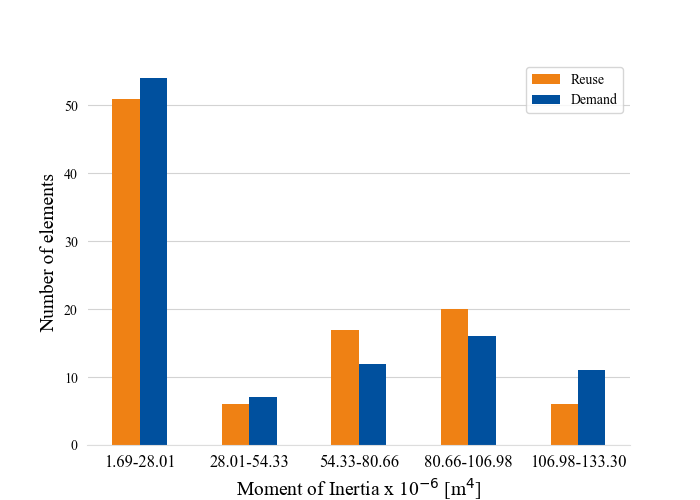
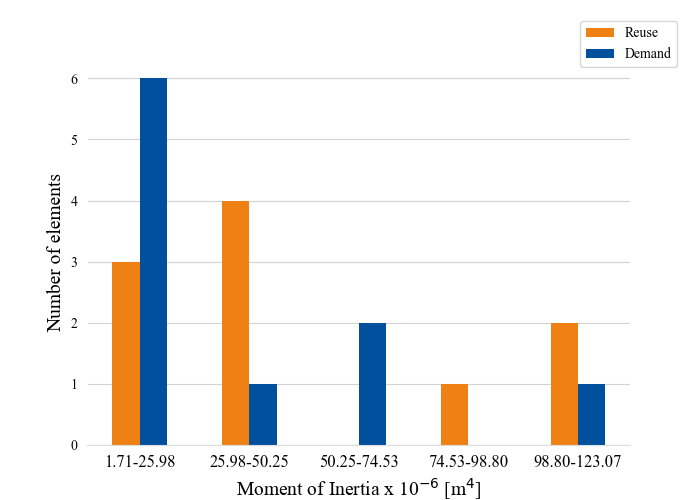
Fixed legend in plots, distance between material bars and the sizing of circles in map plot

diff --git a/Local_files/GUI_files/Results/Maps/map_reused_test_subs.html b/Local_files/GUI_files/Results/Maps/map_reused_test_subs.html
@@ -25,7 +25,7 @@
             <meta name="viewport" content="width=device-width,
                 initial-scale=1.0, maximum-scale=1.0, user-scalable=no" />
             <style>
-                #map_cc3bad2fd6f7d48278715364c1f8ff1e {
+                #map_247c877443954fe98fb7e86f215f1224 {
                     position: relative;
                     width: 100.0%;
                     height: 100.0%;
@@ -43,63 +43,83 @@
                     top: 10px; right: 10px; width: 180px; height: 50px; 
                     border:2px solid grey; z-index:9999; font-size:14px;
                     background-color: white;text-align:center;font-family: "Times New Roman", Times, serif;">
-        <i class="fa-solid fa-circle" style="color:red;font-size=0.5px;"></i> Manufacturer locations<br>
+        <i class="fa-solid fa-circle" style="color:green;font-size=0.5px;"></i> Substitution locations<br>
         <i class="fa-solid fa-location-dot" style="color:#38AADD;"></i> Cite location  
         </div>
         
     
-            <div class="folium-map" id="map_cc3bad2fd6f7d48278715364c1f8ff1e" ></div>
+            <div class="folium-map" id="map_247c877443954fe98fb7e86f215f1224" ></div>
         
 </body>
 <script>
     
     
-            var map_cc3bad2fd6f7d48278715364c1f8ff1e = L.map(
-                "map_cc3bad2fd6f7d48278715364c1f8ff1e",
+            var map_247c877443954fe98fb7e86f215f1224 = L.map(
+                "map_247c877443954fe98fb7e86f215f1224",
                 {
-                    center: [63.438445, 10.40994],
+                    center: [63.04910296666666, 10.1910685],
                     crs: L.CRS.EPSG3857,
                     zoom: 10,
                     zoomControl: true,
                     preferCanvas: false,
                 }
             );
-            L.control.scale().addTo(map_cc3bad2fd6f7d48278715364c1f8ff1e);
+            L.control.scale().addTo(map_247c877443954fe98fb7e86f215f1224);
 
             
 
         
     
-            var tile_layer_2a9acdcf0084eb6a5c63c95bba98897e = L.tileLayer(
+            var tile_layer_1b1ba0fe0bc124f24a98f321435b4739 = L.tileLayer(
                 "https://{s}.tile.openstreetmap.org/{z}/{x}/{y}.png",
                 {"attribution": "Data by \u0026copy; \u003ca target=\"_blank\" href=\"http://openstreetmap.org\"\u003eOpenStreetMap\u003c/a\u003e, under \u003ca target=\"_blank\" href=\"http://www.openstreetmap.org/copyright\"\u003eODbL\u003c/a\u003e.", "detectRetina": false, "maxNativeZoom": 18, "maxZoom": 18, "minZoom": 0, "noWrap": false, "opacity": 1, "subdomains": "abc", "tms": false}
-            ).addTo(map_cc3bad2fd6f7d48278715364c1f8ff1e);
+            ).addTo(map_247c877443954fe98fb7e86f215f1224);
         
     
-            var marker_46a3abbd7221c531623b095608c17190 = L.marker(
+            var marker_32cfa4f846ec8a469770115056ec6ee7 = L.marker(
                 [63.4154171, 10.3994672],
                 {}
-            ).addTo(map_cc3bad2fd6f7d48278715364c1f8ff1e);
+            ).addTo(map_247c877443954fe98fb7e86f215f1224);
         
     
-            var icon_995f310fde1750b74e679dd72b1b94f8 = L.AwesomeMarkers.icon(
+            var icon_4fc1d4b2f7d595804a48e38b1487fc40 = L.AwesomeMarkers.icon(
                 {"extraClasses": "fa-rotate-0", "icon": "fa-circle", "iconColor": "white", "markerColor": "blue", "prefix": "fa"}
             );
-            marker_46a3abbd7221c531623b095608c17190.setIcon(icon_995f310fde1750b74e679dd72b1b94f8);
+            marker_32cfa4f846ec8a469770115056ec6ee7.setIcon(icon_4fc1d4b2f7d595804a48e38b1487fc40);
         
     
-            var marker_3e5f704e72cb6eae889393ed543a3a82 = L.marker(
-                [63.438445, 10.40994],
+            var marker_13b38c006cc4646dd1f41c6b7d6e798f = L.marker(
+                [62.8238946, 9.9934341],
                 {}
-            ).addTo(map_cc3bad2fd6f7d48278715364c1f8ff1e);
+            ).addTo(map_247c877443954fe98fb7e86f215f1224);
         
     
-            var div_icon_d0e80118728054b591660a28135e9c68 = L.divIcon({"className": "empty", "html": "\u003cdiv style=\"font-size: 12px; font-weight: bold; color: white; background-color: red; border-radius: 50%; padding: 10px 5px; height: 35px; width: 35px; text-align: center; line-height: 1.5;\"\u003e7\u003c/div\u003e"});
-            marker_3e5f704e72cb6eae889393ed543a3a82.setIcon(div_icon_d0e80118728054b591660a28135e9c68);
+            var div_icon_5601384cf105da69f61a8d5ac26465c5 = L.divIcon({"className": "empty", "html": "\u003cdiv style=\"font-size: 12px; font-weight: bold; color: white; background-color: green; border-radius: 50%; padding: 10px 5px; height: 35px; width: 35px; text-align: center; line-height: 1.5;\"\u003e1\u003c/div\u003e"});
+            marker_13b38c006cc4646dd1f41c6b7d6e798f.setIcon(div_icon_5601384cf105da69f61a8d5ac26465c5);
         
     
-            map_cc3bad2fd6f7d48278715364c1f8ff1e.fitBounds(
-                [["63.4154171", "10.3994672"], [63.438445, 10.40994]],
+            var marker_c55d20581190eb021df675a5e8c3f320 = L.marker(
+                [63.033639, 10.286356],
+                {}
+            ).addTo(map_247c877443954fe98fb7e86f215f1224);
+        
+    
+            var div_icon_d3079347e856e344127c4301450e4e40 = L.divIcon({"className": "empty", "html": "\u003cdiv style=\"font-size: 12px; font-weight: bold; color: white; background-color: green; border-radius: 50%; padding: 10px 5px; height: 35px; width: 35px; text-align: center; line-height: 1.5;\"\u003e1\u003c/div\u003e"});
+            marker_c55d20581190eb021df675a5e8c3f320.setIcon(div_icon_d3079347e856e344127c4301450e4e40);
+        
+    
+            var marker_3ae1f0b2d0cea0dd1450dd44462c9079 = L.marker(
+                [63.2897753, 10.2934154],
+                {}
+            ).addTo(map_247c877443954fe98fb7e86f215f1224);
+        
+    
+            var div_icon_8c217b9e90bc2b68d26f0736ce2175ec = L.divIcon({"className": "empty", "html": "\u003cdiv style=\"font-size: 12px; font-weight: bold; color: white; background-color: green; border-radius: 50%; padding: 10px 5px; height: 35px; width: 35px; text-align: center; line-height: 1.5;\"\u003e1\u003c/div\u003e"});
+            marker_3ae1f0b2d0cea0dd1450dd44462c9079.setIcon(div_icon_8c217b9e90bc2b68d26f0736ce2175ec);
+        
+    
+            map_247c877443954fe98fb7e86f215f1224.fitBounds(
+                [["63.4154171", "10.3994672"], [62.8238946, 9.9934341], [63.033639, 10.286356], [63.2897753, 10.2934154]],
                 {}
             );
         

diff --git a/TestCases/study_case_generate_report.py b/TestCases/study_case_generate_report.py
@@ -28,7 +28,7 @@ constants = {
     ########################
     "Project name": "Testing PDF",
     "Metric": "GWP",
-    "Algorithms": ["greedy_plural", "milp", "bipartite_plural"],
+    "Algorithms": ["greedy_single"],
     "Include transportation": True,
     "Cite latitude": "63.4154171",
     "Cite longitude": "10.3994672",
@@ -59,8 +59,8 @@ materials = ["Timber", "Steel"]
 
 #GENERATE FILE
 #============
-supply = hm.create_random_data_supply_pdf_reports(supply_count = 100, length_min = 1.0, length_max = 10.0, area_min = 0.004, area_max = 0.04, materials = materials, supply_coords = supply_coords)
-demand = hm.create_random_data_demand_pdf_reports(demand_count = 100, length_min = 1.0, length_max = 10.0, area_min = 0.004, area_max = 0.04, materials = materials)
+supply = hm.create_random_data_supply_pdf_reports(supply_count = 10, length_min = 1.0, length_max = 10.0, area_min = 0.004, area_max = 0.04, materials = materials, supply_coords = supply_coords)
+demand = hm.create_random_data_demand_pdf_reports(demand_count = 10, length_min = 1.0, length_max = 10.0, area_min = 0.004, area_max = 0.04, materials = materials)
 hm.export_dataframe_to_csv(supply, r"" + "./CSV/testing_pdf_supply.csv")
 hm.export_dataframe_to_csv(demand, r"" + "./CSV/testing_pdf_demand.csv")
 #supply.to_excel(r"" + "./CSV/study_case_supply.xlsx")
@@ -85,9 +85,9 @@ plot.create_graph(supply, demand, target_column="Moment of Inertia", unit=r"[m$^
 plot.plot_materials(supply, demand, "", save_filename=r"material_plot.png")
 
 if constants["Include transportation"]:
-    plot.create_map_substitutions(supply, pdf_results, "supply", color = "green", legend_text="Substitution locations", save_name=r"map_reused_subs")
+    plot.create_map_substitutions(supply, pdf_results, "supply", color = "green", legend_text="Substitution locations", save_name=r"map_reused_test_subs")
     plot.create_map_substitutions(demand, pdf_results, "demand", color = "red", legend_text="Manufacturer locations", save_name=r"map_manu_subs")
-hm.generate_pdf_report(pdf_results, constants["Project name"],supply,demand, filepath = r"./Local_files/GUI_files/Results/")
+#hm.generate_pdf_report(pdf_results, constants["Project name"],supply,demand, filepath = r"./Local_files/GUI_files/Results/")
 
 
 #TODO: Create map with the random supply locations and the cite location
@@ -108,6 +108,5 @@ hm.generate_pdf_report(pdf_results, constants["Project name"],supply,demand, fil
 #plot.create_map_substitutions(demand, pdf_results, "demand", color = "red", legend_text="Manufacturer locations", save_name=r"map_manu_subs")
 #pdf = hm.generate_pdf_report(pdf_results, projectname = constants["Project name"], filepath = r"./Local_files/GUI_files/Results/")
 #print(hm.extract_pairs_df(result))
-
 
 

diff --git a/Matching/plotting.py b/Matching/plotting.py
@@ -81,11 +81,13 @@ def plot_materials(supply, demand, fig_title, save_filename):
     plt.ylabel("Number of elements", fontsize=14)
     plt.title(fig_title)
     ax.yaxis.get_major_locator().set_params(integer=True)
-    width = 0.15
+    width = 0.25
+    ax.set_xlim([x[0]-0.60, x[-1]+0.60])
     bar1 = ax.bar(x - width / 2, supply_values, width, label="Reuse", zorder=2, color = color_palette[0])
     bar2 = ax.bar(x + width / 2, demand_values, width, label="Demand", zorder=2, color = color_palette[1])
-    ax.set_xticks(x, label, fontsize=12)
-    ax.legend()
+    ax.set_xticks(x)
+    ax.set_xticklabels(label, fontsize=12)
+    ax.legend(loc = "upper right", bbox_to_anchor=(1.10, 1.12))
     ax.set_facecolor("white")
     ax.grid(visible=True, color="lightgrey", axis="y", zorder=1)
     #for position in ['top', 'bottom', 'left', 'right']:
@@ -95,6 +97,7 @@ def plot_materials(supply, demand, fig_title, save_filename):
     ax.spines['left'].set_visible(False)
     ax.spines['bottom'].set_color('#DDDDDD')
     ax.tick_params(bottom=False, left=False)
+    # set x-axis limits to reduce space between groups of bars
     save_name = r"./Local_files/GUI_files/Results/Plots/" + save_filename
     plt.savefig(save_name, dpi=100)
 
@@ -180,7 +183,7 @@ def create_graph(supply, demand, target_column, unit, number_of_intervals, fig_t
     bar1 = ax.bar(x - width / 2, supply_values, width, label="Reuse", zorder=2, color = color_palette[0])
     bar2 = ax.bar(x + width / 2, demand_values, width, label="Demand", zorder=2, color = color_palette[1])
     ax.set_xticks(x, label, fontsize=12)
-    ax.legend()
+    ax.legend(loc = "upper right", bbox_to_anchor=(1.10, 1.12))
     ax.set_facecolor("white")
     ax.grid(visible=True, color="lightgrey", axis="y", zorder=1)
     #for position in ['top', 'bottom', 'left', 'right']:
@@ -222,7 +225,7 @@ def create_map_dataframe(df, color, legend_text, save_name):
         fit_view_coordinates.append(coord)
         marker_number = coordinates_dict[coord]
         location = [coord[0],coord[1]]
-        icon_html = f'<div style="font-size: 12px; font-weight: bold; color: white; background-color: {color}; border-radius: 50%; padding: 5px 5px; height: 25px; width: 25px; text-align: center; line-height: 1.5;">{marker_number}</div>'
+        icon_html = f'<div style="font-size: 12px; font-weight: bold; color: white; background-color: {color}; border-radius: 50%; padding: 10px 5px; height: 35px; width: 35px; text-align: center; line-height: 1.5;">{marker_number}</div>'
         folium.Marker(
         location=location,
         icon=folium.DivIcon(
